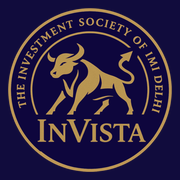
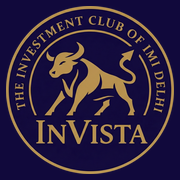
New InVista seal and "The Investment Club" wording
- Logo, favicon and home screen icon replaced with the new seal,
  cut to a round transparent shape.
- README now names the club as InVista - The Investment Club,
  International Management Institute (IMI), Delhi.

Claude-Session: https://claude.ai/code/session_017kZvKcaW9veZnHXuzEbj58

diff --git a/README.md b/README.md
@@ -1,6 +1,6 @@
 # Market Mayhem - Trading Simulation: Dalal Street Challenge
 
-Competition platform for InVista, the investment society of International Management Institute New Delhi. It has 2 parts:
+Competition platform for InVista - The Investment Club, International Management Institute (IMI), Delhi. It has 2 parts:
 
 - **Participant portal**: team registration at `/register`, team login at `/login` with the team name and team code, markets, news announcements linked to the InVista Instagram page, trading terminal with a built-in calculator, portfolio, orders and leaderboards.
 - **Organiser admin panel** at `/admin` (sign in at `/organiser`): phases and round control, teams and logins, assets, news scores and market settings, trading rules and rulebook, orders, market analytics, leaderboards, reports and the audit log.
